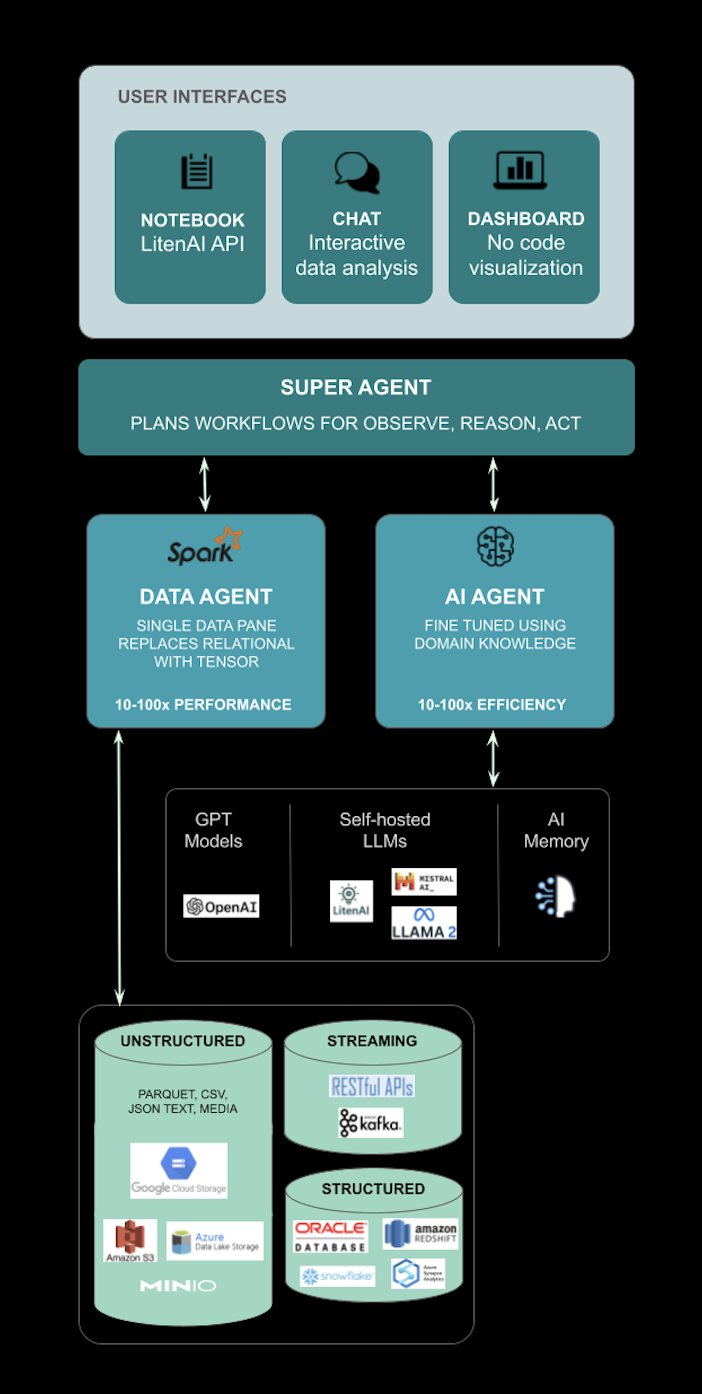
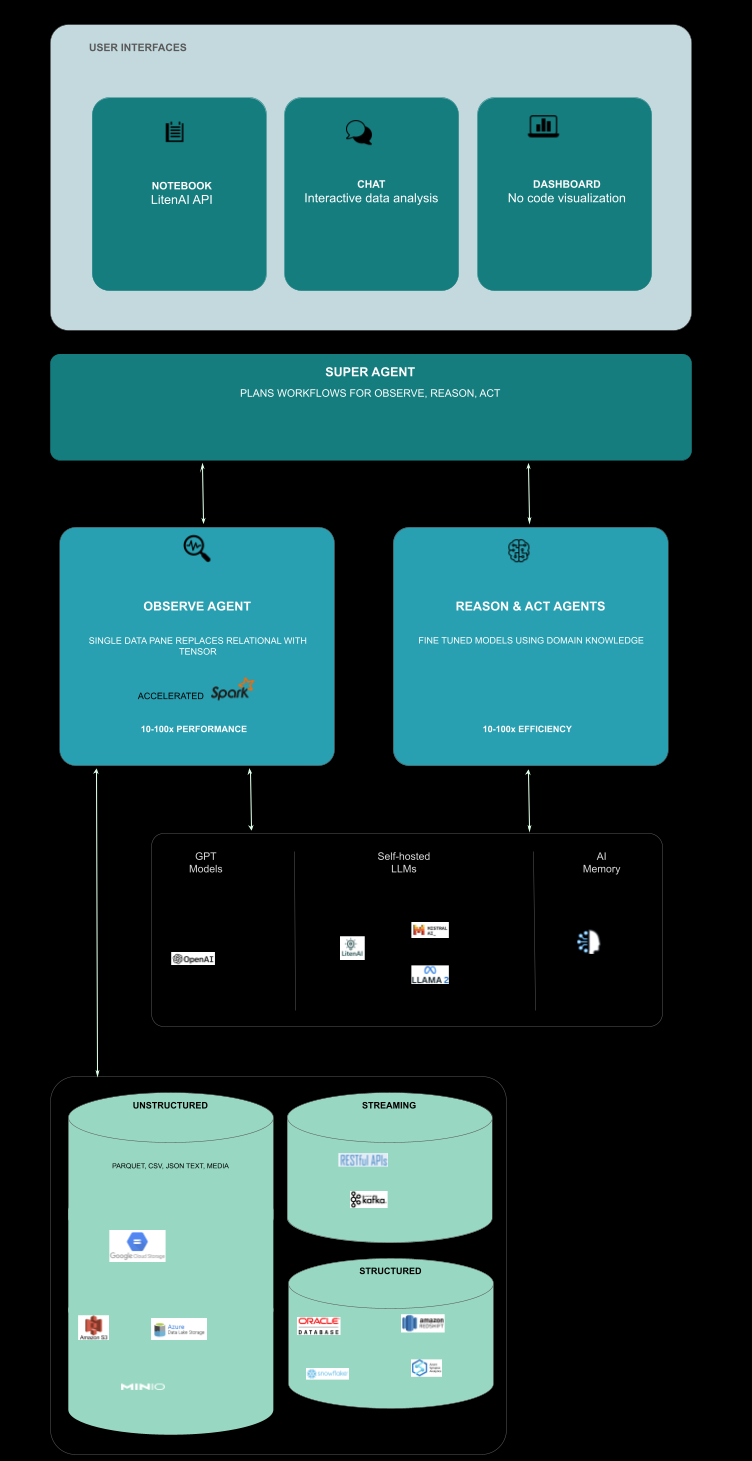
Modified some diagrams

diff --git a/index.html b/index.html
@@ -111,7 +111,7 @@
 
     <!-- Product Start -->
     <div class="product-container bg-black text-white">
-      <p class="h5 text-center">MULTI AGENT PLATFORM WITH AI AND DATA AGENTS</p>
+      <p class="h5 text-center">MULTI AGENT PLATFORM TO OBSERVE, REASON AND ACT</p>
       <div class="product">
         <img src="images/litenai-architecture.png" alt="Architecture" />
         <div class="description">
